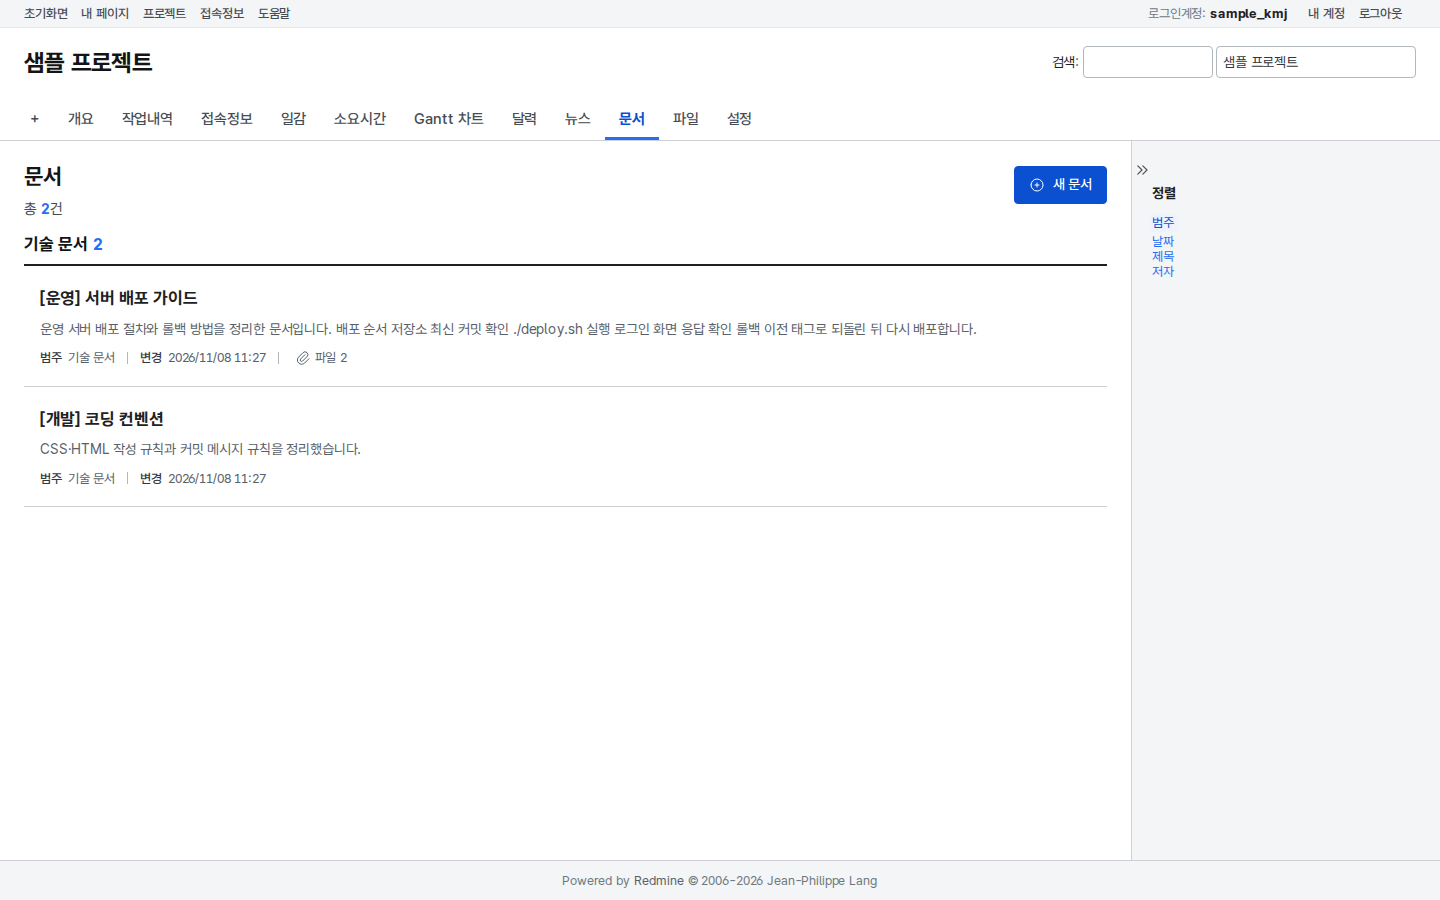
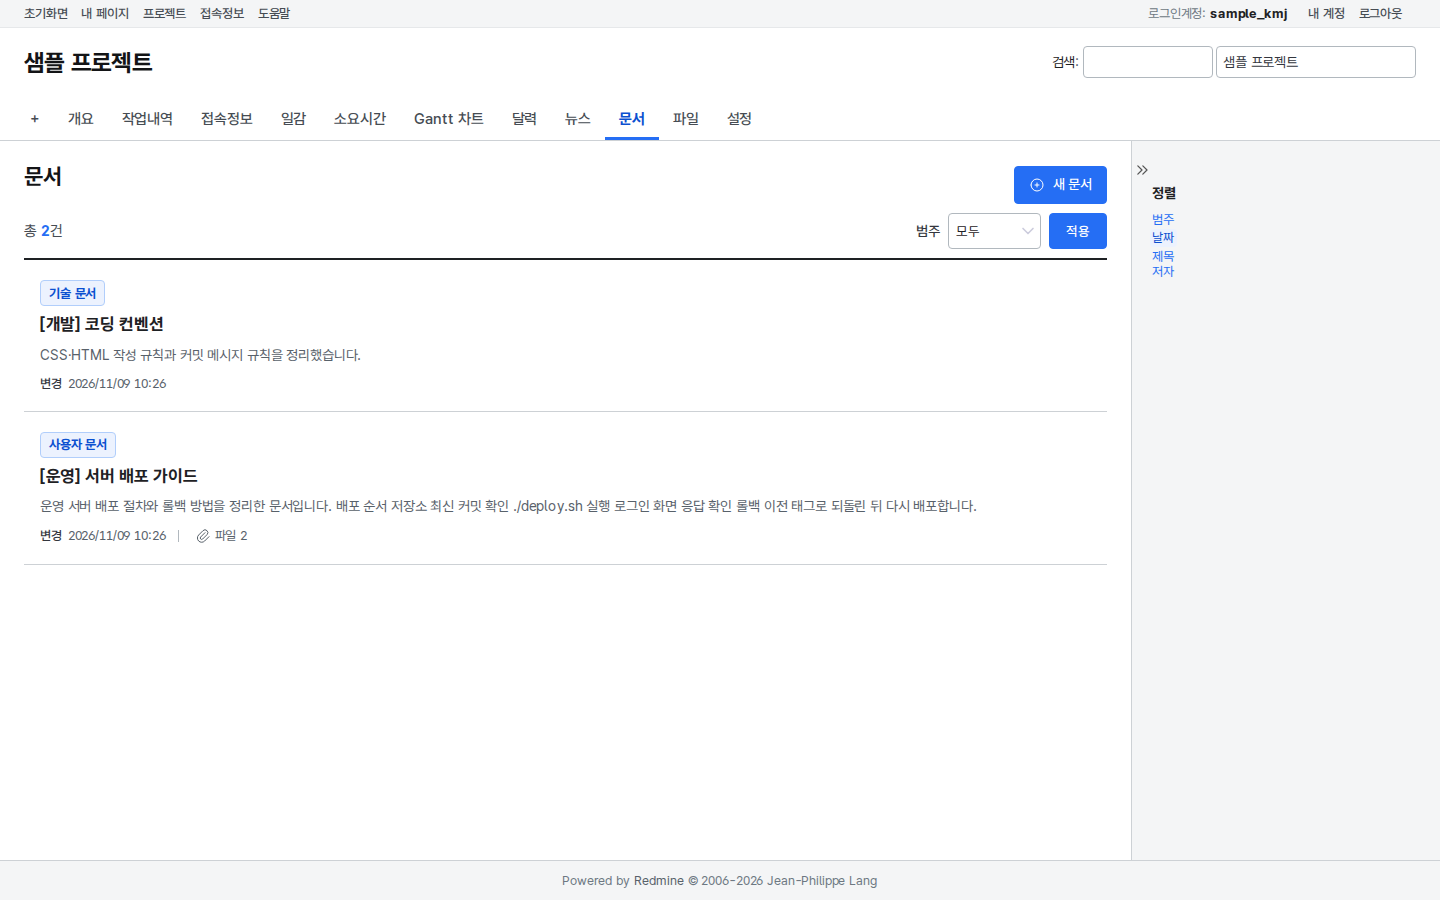
문서 목록에 범주 검색조건과 제목 위 범주 배지 적용

Changed region(s): [[0.0, 0.1867, 0.8125, 0.6222]]

diff --git a/themes/krds/stylesheets/application.css b/themes/krds/stylesheets/application.css
@@ -230,11 +230,15 @@ div.fileover span.add_attachment,p.custom-field-filedroplistner.fileover span.ad
 .doc_file div.attachments>.contextual{position:absolute;top:-30px;right:0;margin:0;}
 
 /* ===== 문서 목록 (KRDS 게시판 목록, 마크업: plugins/krds_ui) ===== */
-.doc_total{margin:0 0 8px;font-size:0.9375rem;color:var(--gray_70);}
+.doc_bar{display:flex;clear:both;flex-wrap:wrap;align-items:center;justify-content:space-between;gap:8px;margin:0 0 8px;}
+.doc_total{margin:0;font-size:0.9375rem;color:var(--gray_70);}
 .doc_total strong{color:var(--pri_50);}
-#document-list .document-group{margin-bottom:32px;}
-#content .document-group h3.group-name{display:flex;align-items:center;gap:6px;padding:0;margin:16px 0 10px;font-size:1.0625rem;color:var(--gray_95);}
-.group-name .count{color:var(--pri_50);}
+.doc_filter{display:flex;flex-wrap:wrap;align-items:center;gap:8px;margin:0;}
+.doc_filter label{font-size:0.875rem;font-weight:500;color:var(--gray_80);}
+.doc_filter select{height:36px;}
+.doc_filter input[type=submit]{height:36px;margin:0;}
+.doc_clear{font-size:0.875rem;color:var(--gray_60);}
+.doc_badge{display:inline-flex;align-items:center;height:24px;padding:0 8px;margin:0 0 6px;border:1px solid var(--pri_20);border-radius:var(--radius_s);background:var(--pri_5);font-size:0.8125rem;font-weight:700;color:var(--pri_60);}
 .doc_list{padding:0;margin:0;border-top:2px solid var(--gray_90);list-style:none;}
 .doc_list>li.doc_item{padding:20px 16px;border-bottom:1px solid var(--gray_20);}
 .doc_list>li.doc_item:hover{background:var(--gray_5);}

diff --git a/plugins/krds_ui/init.rb b/plugins/krds_ui/init.rb
@@ -1,7 +1,7 @@
 # Redmine 화면 보조 플러그인 — KRDS 테마(krds)용 마크업 덮어쓰기
 # app/views/ 의 파일이 Redmine 기본 화면보다 우선 적용됨 (플러그인 view 경로가 앞에 붙음)
 # 덮어쓴 화면 (Redmine 업그레이드 시 원본 변경 여부를 비교할 것)
-# - documents/show.html.erb, index.html.erb, _document.html.erb : 문서 상세·목록 (Redmine 6.1.6 원본 기준)
+# - documents/show.html.erb, index.html.erb, _document.html.erb : 문서 상세·목록 (Redmine 6.1.6 원본 기준, 목록 데이터: DocumentListPatch)
 # - documents/_form.html.erb : 편집 화면에도 첨부 추가·삭제 표시 (저장 처리: DocumentAttachmentsPatch)
 # - activities/_activities.html.erb : 작업내역 시간을 오전/오후 12시간제로 표시
 # config/locales/ko.yml : core 한국어 번역 누락분 보충
@@ -13,6 +13,36 @@ module KrdsUi
       fn = firstname.to_s.strip
       return fn[0, 2] if fn.match?(/\p{Hangul}/)
       super
+    end
+  end
+
+  # 문서 목록 — 범주별 영역 없이 한 목록으로 표시(범주는 제목 위 배지), 범주 검색조건 추가, 기본 정렬은 최근 순
+  module DocumentListPatch
+    def index
+      @sort_by = %w(category date title author).include?(params[:sort_by]) ? params[:sort_by] : 'date'
+      documents = @project.documents.includes(:attachments, :category).to_a
+      @categories = (DocumentCategory.active.to_a | documents.map(&:category)).sort
+      @category = @categories.detect {|c| c.id == params[:category_id].to_i}
+      documents.select! {|d| d.category == @category} if @category
+      @documents = sort_documents(documents)
+      @document = @project.documents.build
+      render :layout => false if request.xhr?
+    end
+
+    private
+
+    # 정렬 기준이 같으면 최근 순 유지. 작성자 순은 원본처럼 마지막 첨부의 작성자 기준이며, 첨부 없는 문서는 뒤로
+    def sort_documents(documents)
+      documents.sort_by {|d| d.updated_on}.reverse.sort_by.with_index do |d, i|
+        key =
+          case @sort_by
+          when 'category' then d.category.position
+          when 'title' then d.title.downcase
+          when 'author' then (a = d.attachments.last) ? [0, a.author.to_s] : [1, '']
+          else 0
+          end
+        [key, i]
+      end
     end
   end
 
@@ -34,11 +64,12 @@ module KrdsUi
 end
 User.prepend(KrdsUi::UserInitialsPatch) unless User.ancestors.include?(KrdsUi::UserInitialsPatch)
 DocumentsController.prepend(KrdsUi::DocumentAttachmentsPatch) unless DocumentsController.ancestors.include?(KrdsUi::DocumentAttachmentsPatch)
+DocumentsController.prepend(KrdsUi::DocumentListPatch) unless DocumentsController.ancestors.include?(KrdsUi::DocumentListPatch)
 
 Redmine::Plugin.register :krds_ui do
   name 'KRDS UI'
   author 'kephi-hub'
   url 'https://github.com/kephi-hub/Redmine-KRDS-style'
-  description 'KRDS 테마용 화면 마크업 (문서 상세·목록), 문서 편집 첨부 추가·삭제, 번역 보충, 한글 아바타 이니셜'
-  version '1.2.0'
+  description 'KRDS 테마용 화면 마크업 (문서 상세·목록), 문서 범주 검색조건, 문서 편집 첨부 추가·삭제, 번역 보충, 한글 아바타 이니셜'
+  version '1.3.0'
 end
